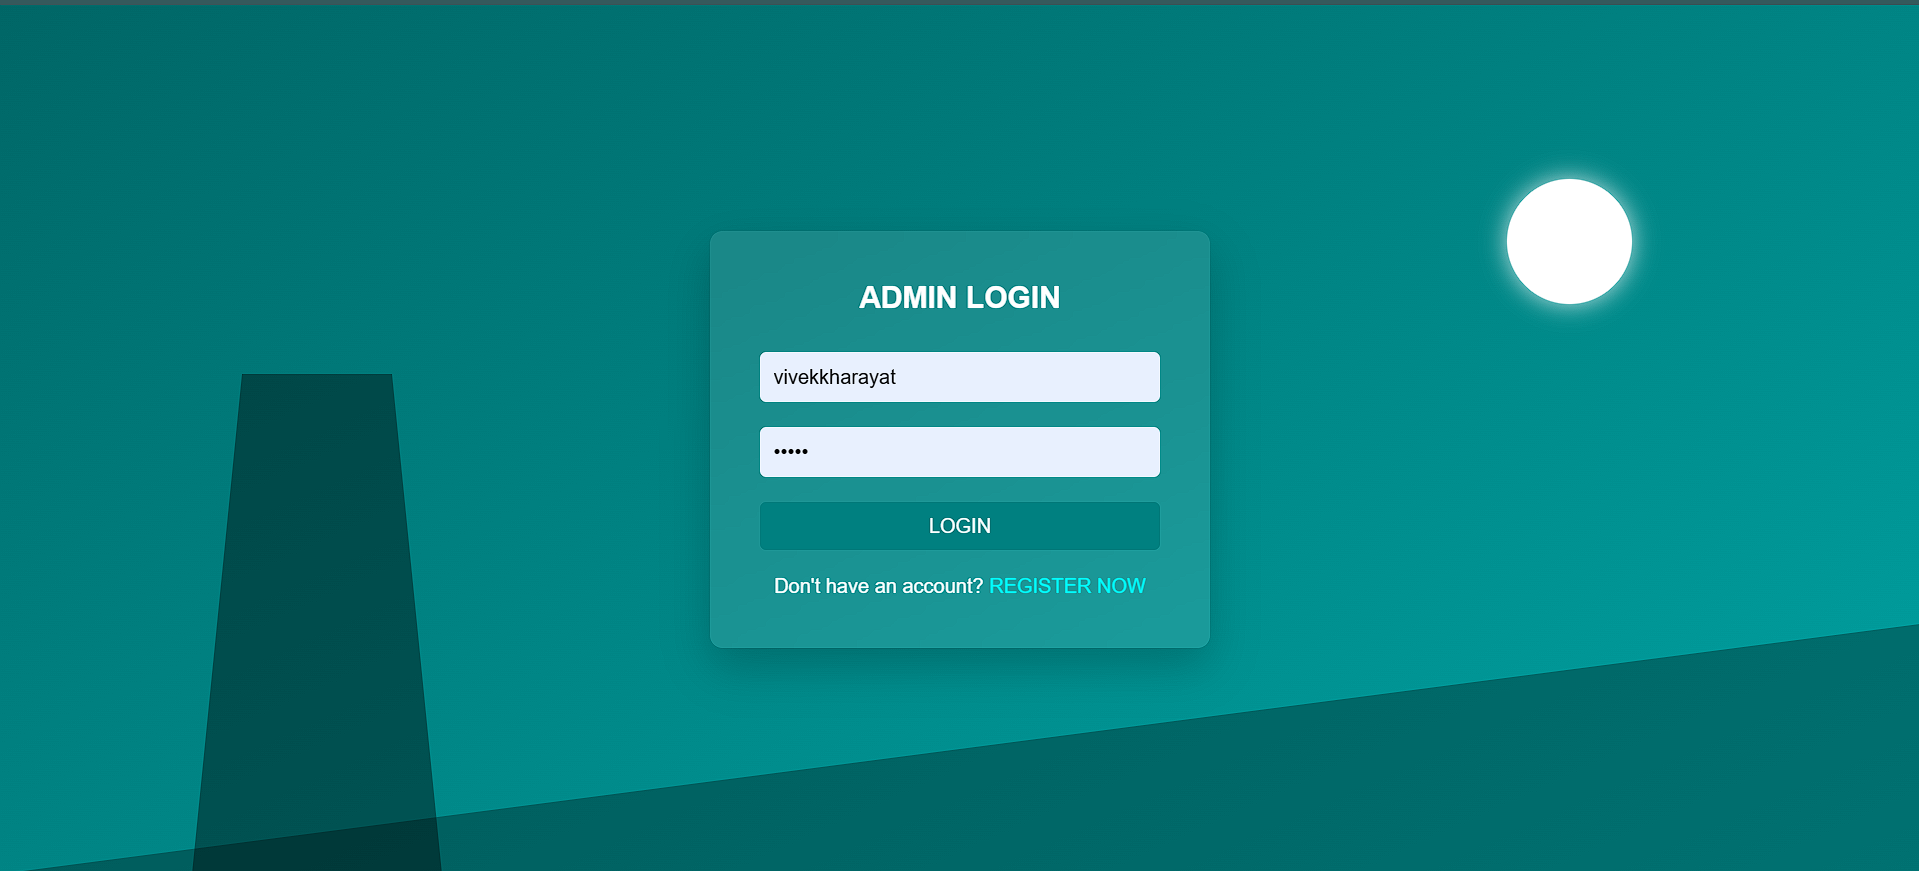
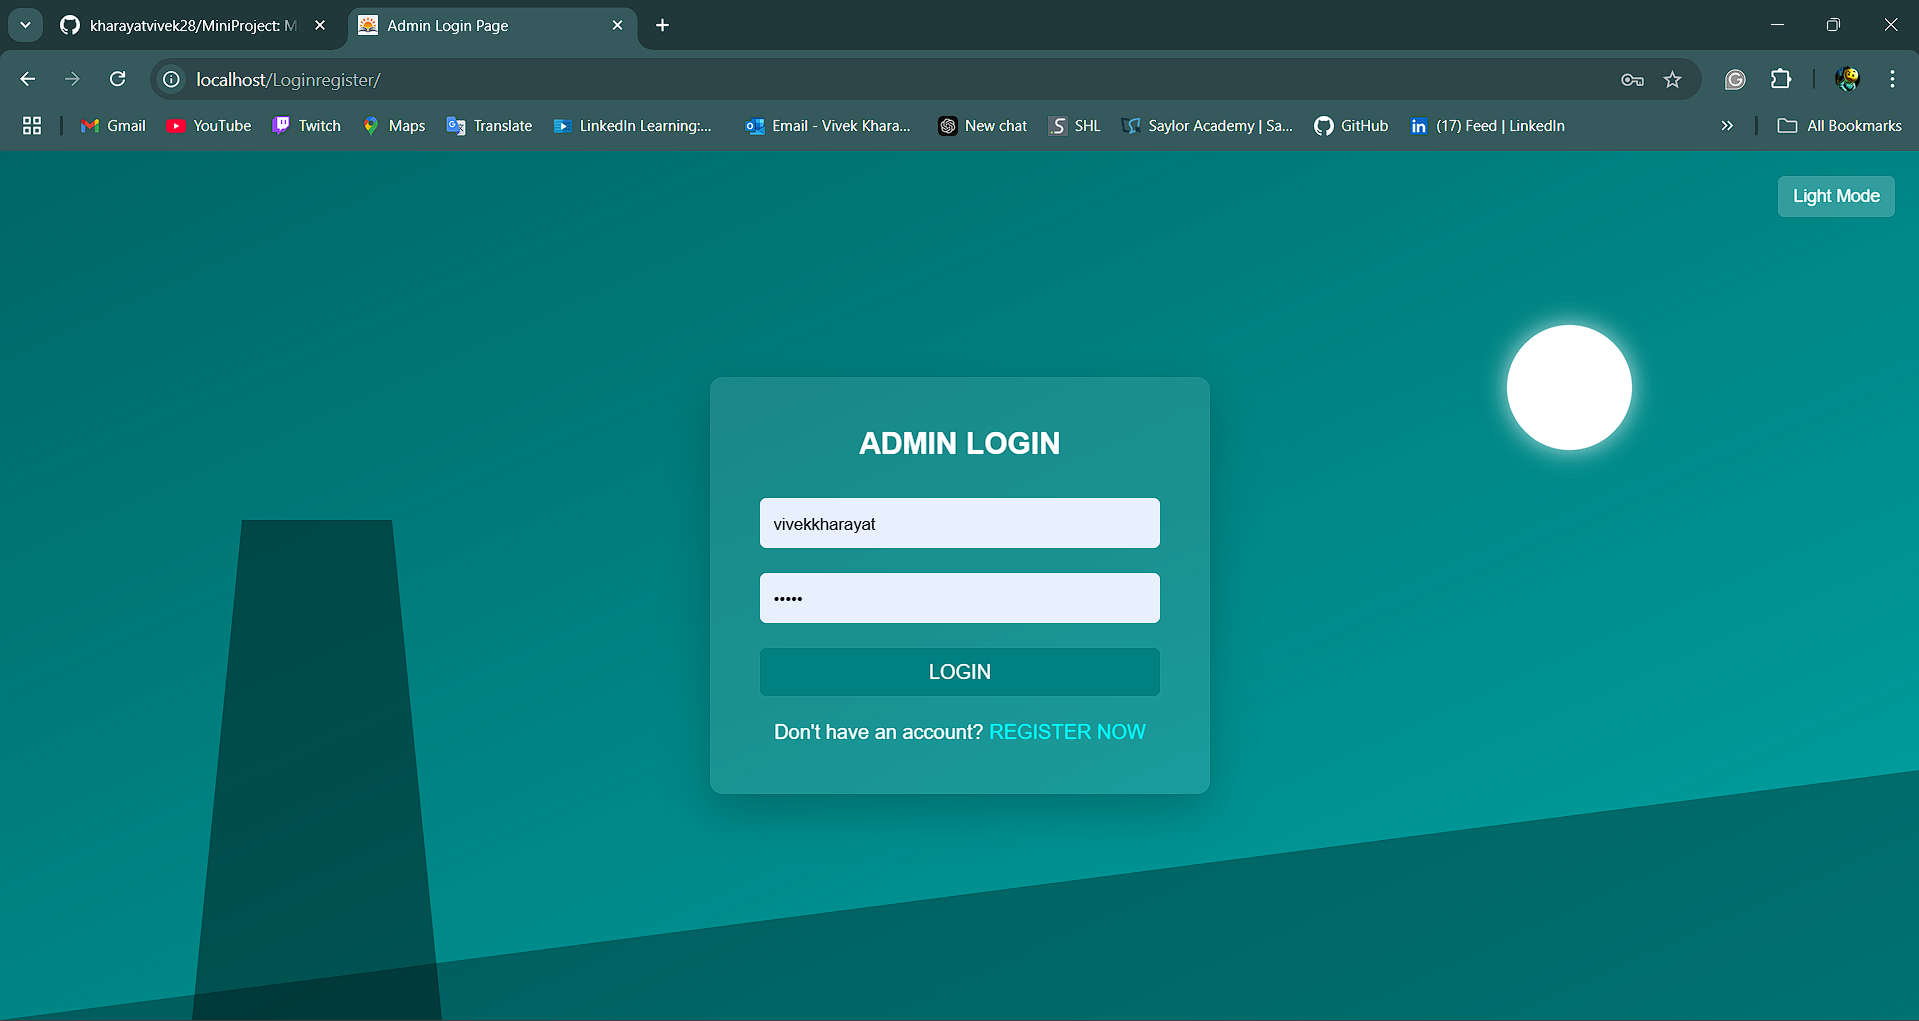
Screenshots Add in README.md File

diff --git a/README.md b/README.md
@@ -7,10 +7,21 @@
    • HTML/CSS: For creating the frontend interface and ensuring user interactivity.<br>
    • JavaScript: For additional interactivity or validation.<br>
 
- <strong>Setup Details:</strong>
- <i>Prerequisites</i> <br>
- XAMPP installed (for Apache server and MySQL database).<br>
- VS Code or any text editor (based on your preference for development).<br>
+<strong>Setup Details:</strong><br>
+<i><u>Prerequisites</u></i> <br>
+XAMPP installed (for Apache server and MySQL database).<br>
+VS Code or any text editor (based on your preference for development).<br>
+
 1. Create a Database: user_authentication,<br>
 2. Create tables using the SQL Queries given in the Database Folder.<br>
-3. Run the project using localhost/foldername...for eg: localhost/Loginregister 
+3. Run the project using localhost/foldername...for eg: localhost/Loginregister<br>
+
+<strong>Output</strong>
+![Admin Login Page Screenshot](Output/LoginPage.png)<br>
+![DarkMode Admin Login Page  Screenshot](Output/LoginPageDarkMode.png)<br>
+![Registration Page  Screenshot](Output/RegistrationPage.png)<br>
+![DarkMode Registration Page  Screenshot](Output/RegistrationDarkMode.png)<br>
+![Dashboard Page  Screenshot](Output/DashboardView.png)<br>
+![DataFlow Diagram  Screenshot](Output/DataFlow%20Diagram.png)<br>
+![View Page  Screenshot](Output/BooksView.png)<br>
+![Data Stored in Database  Screenshot](Output/BookData_database.png)<br>
